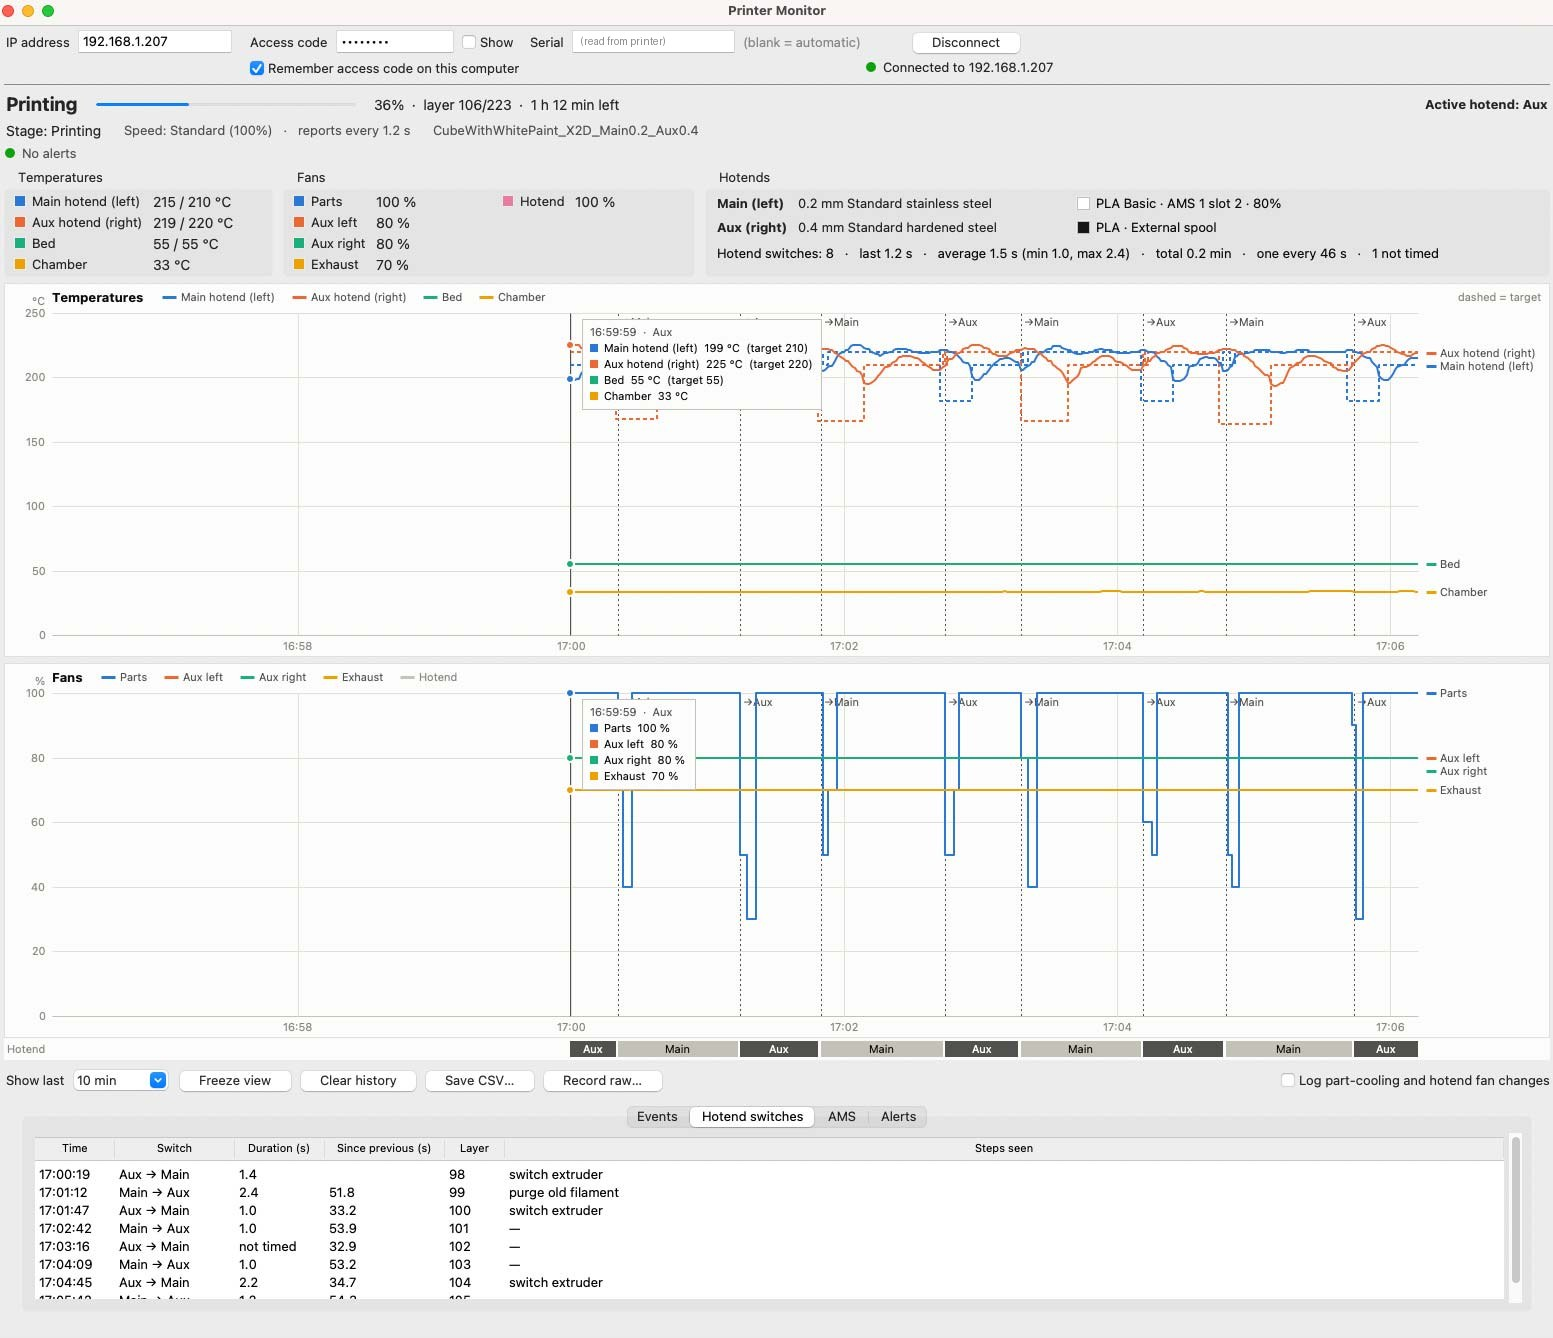
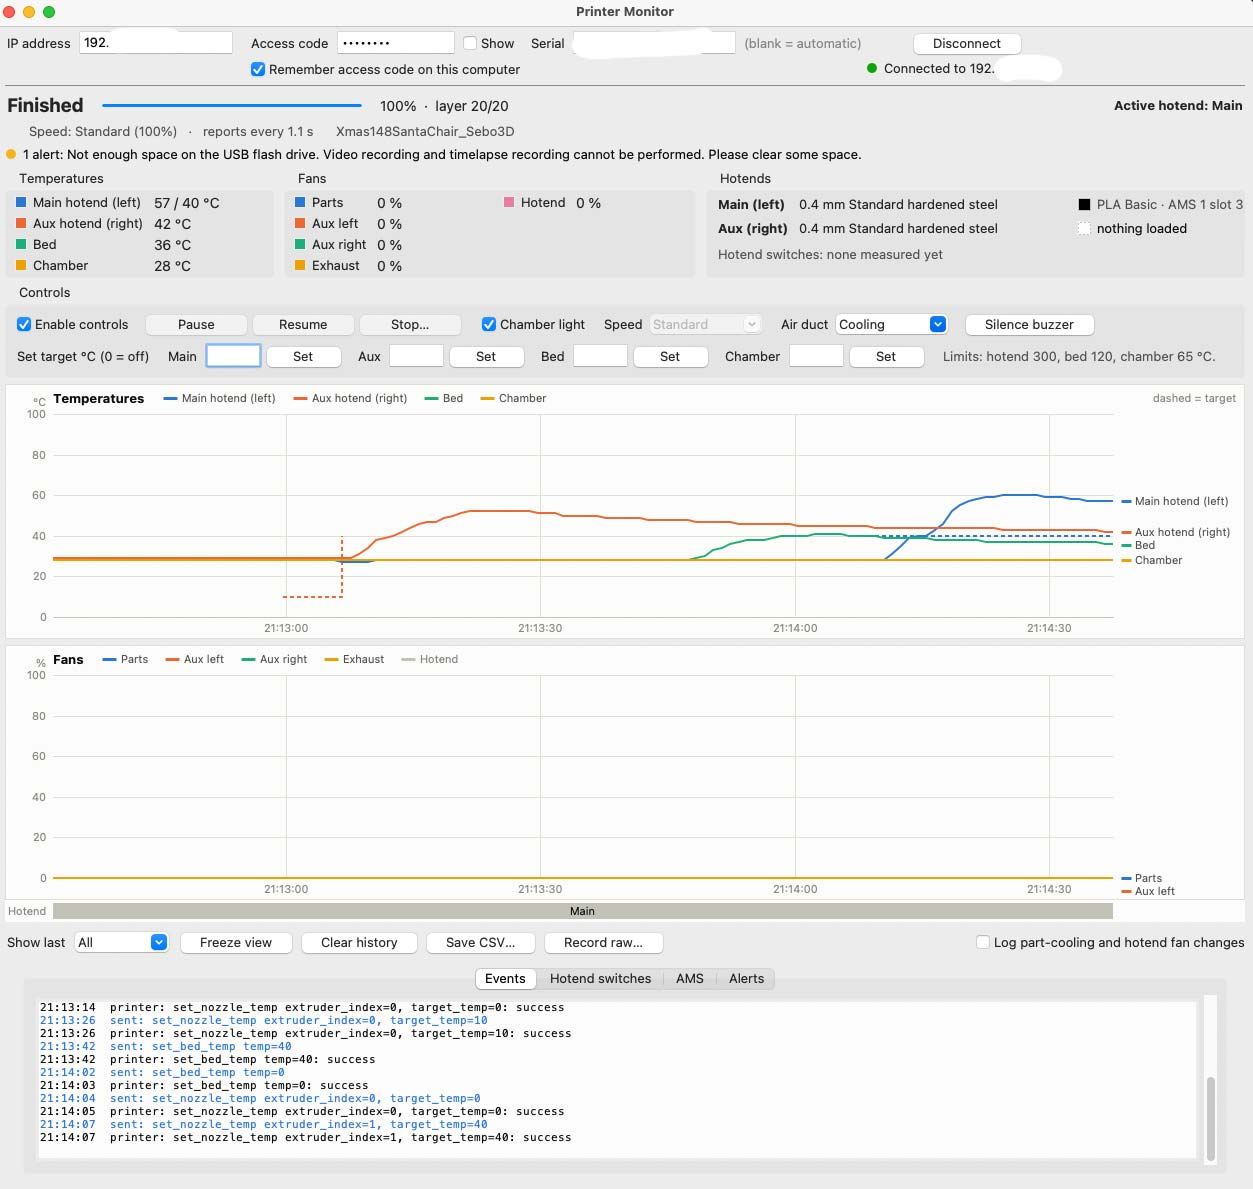
Update screenshot with the Controls row; note controls confirmed on a real X2D

diff --git a/README.md b/README.md
@@ -4,7 +4,7 @@ Live status window for a **Bambu Lab X2D** on your local network. It shows tempe
 
 It works without Bambu Studio, Bambu Handy or the cloud. By default it is **read-only**: the only message it sends to the printer is the standard "send me the full status" request. It can also pause, resume or stop a print and set the light, speed, air duct mode and target temperatures, but only after you tick **Enable controls** (see [Controls](#controls)).
 
-![Printer Monitor during a two-hotend print](docs/screenshot.jpg)
+![Printer Monitor window with the Controls row enabled](docs/screenshot.jpg)
 
 ## What you get
 
@@ -79,7 +79,7 @@ The Controls row is greyed out until you tick **Enable controls**. The tick is n
 
 Every command is written to the Events tab in blue, followed by the printer's answer. The light, speed and air-duct controls follow the printer, so changes made on the printer's screen or in Bambu Studio show up here too.
 
-The controls were tested against a simulated printer, not yet on a real X2D. Try the chamber light first.
+Setting hotend and bed targets has been confirmed on a real X2D (the Events tab in the screenshot shows the printer answering `success`). The other controls were tested against a simulated printer only.
 
 ### Alert texts
 
